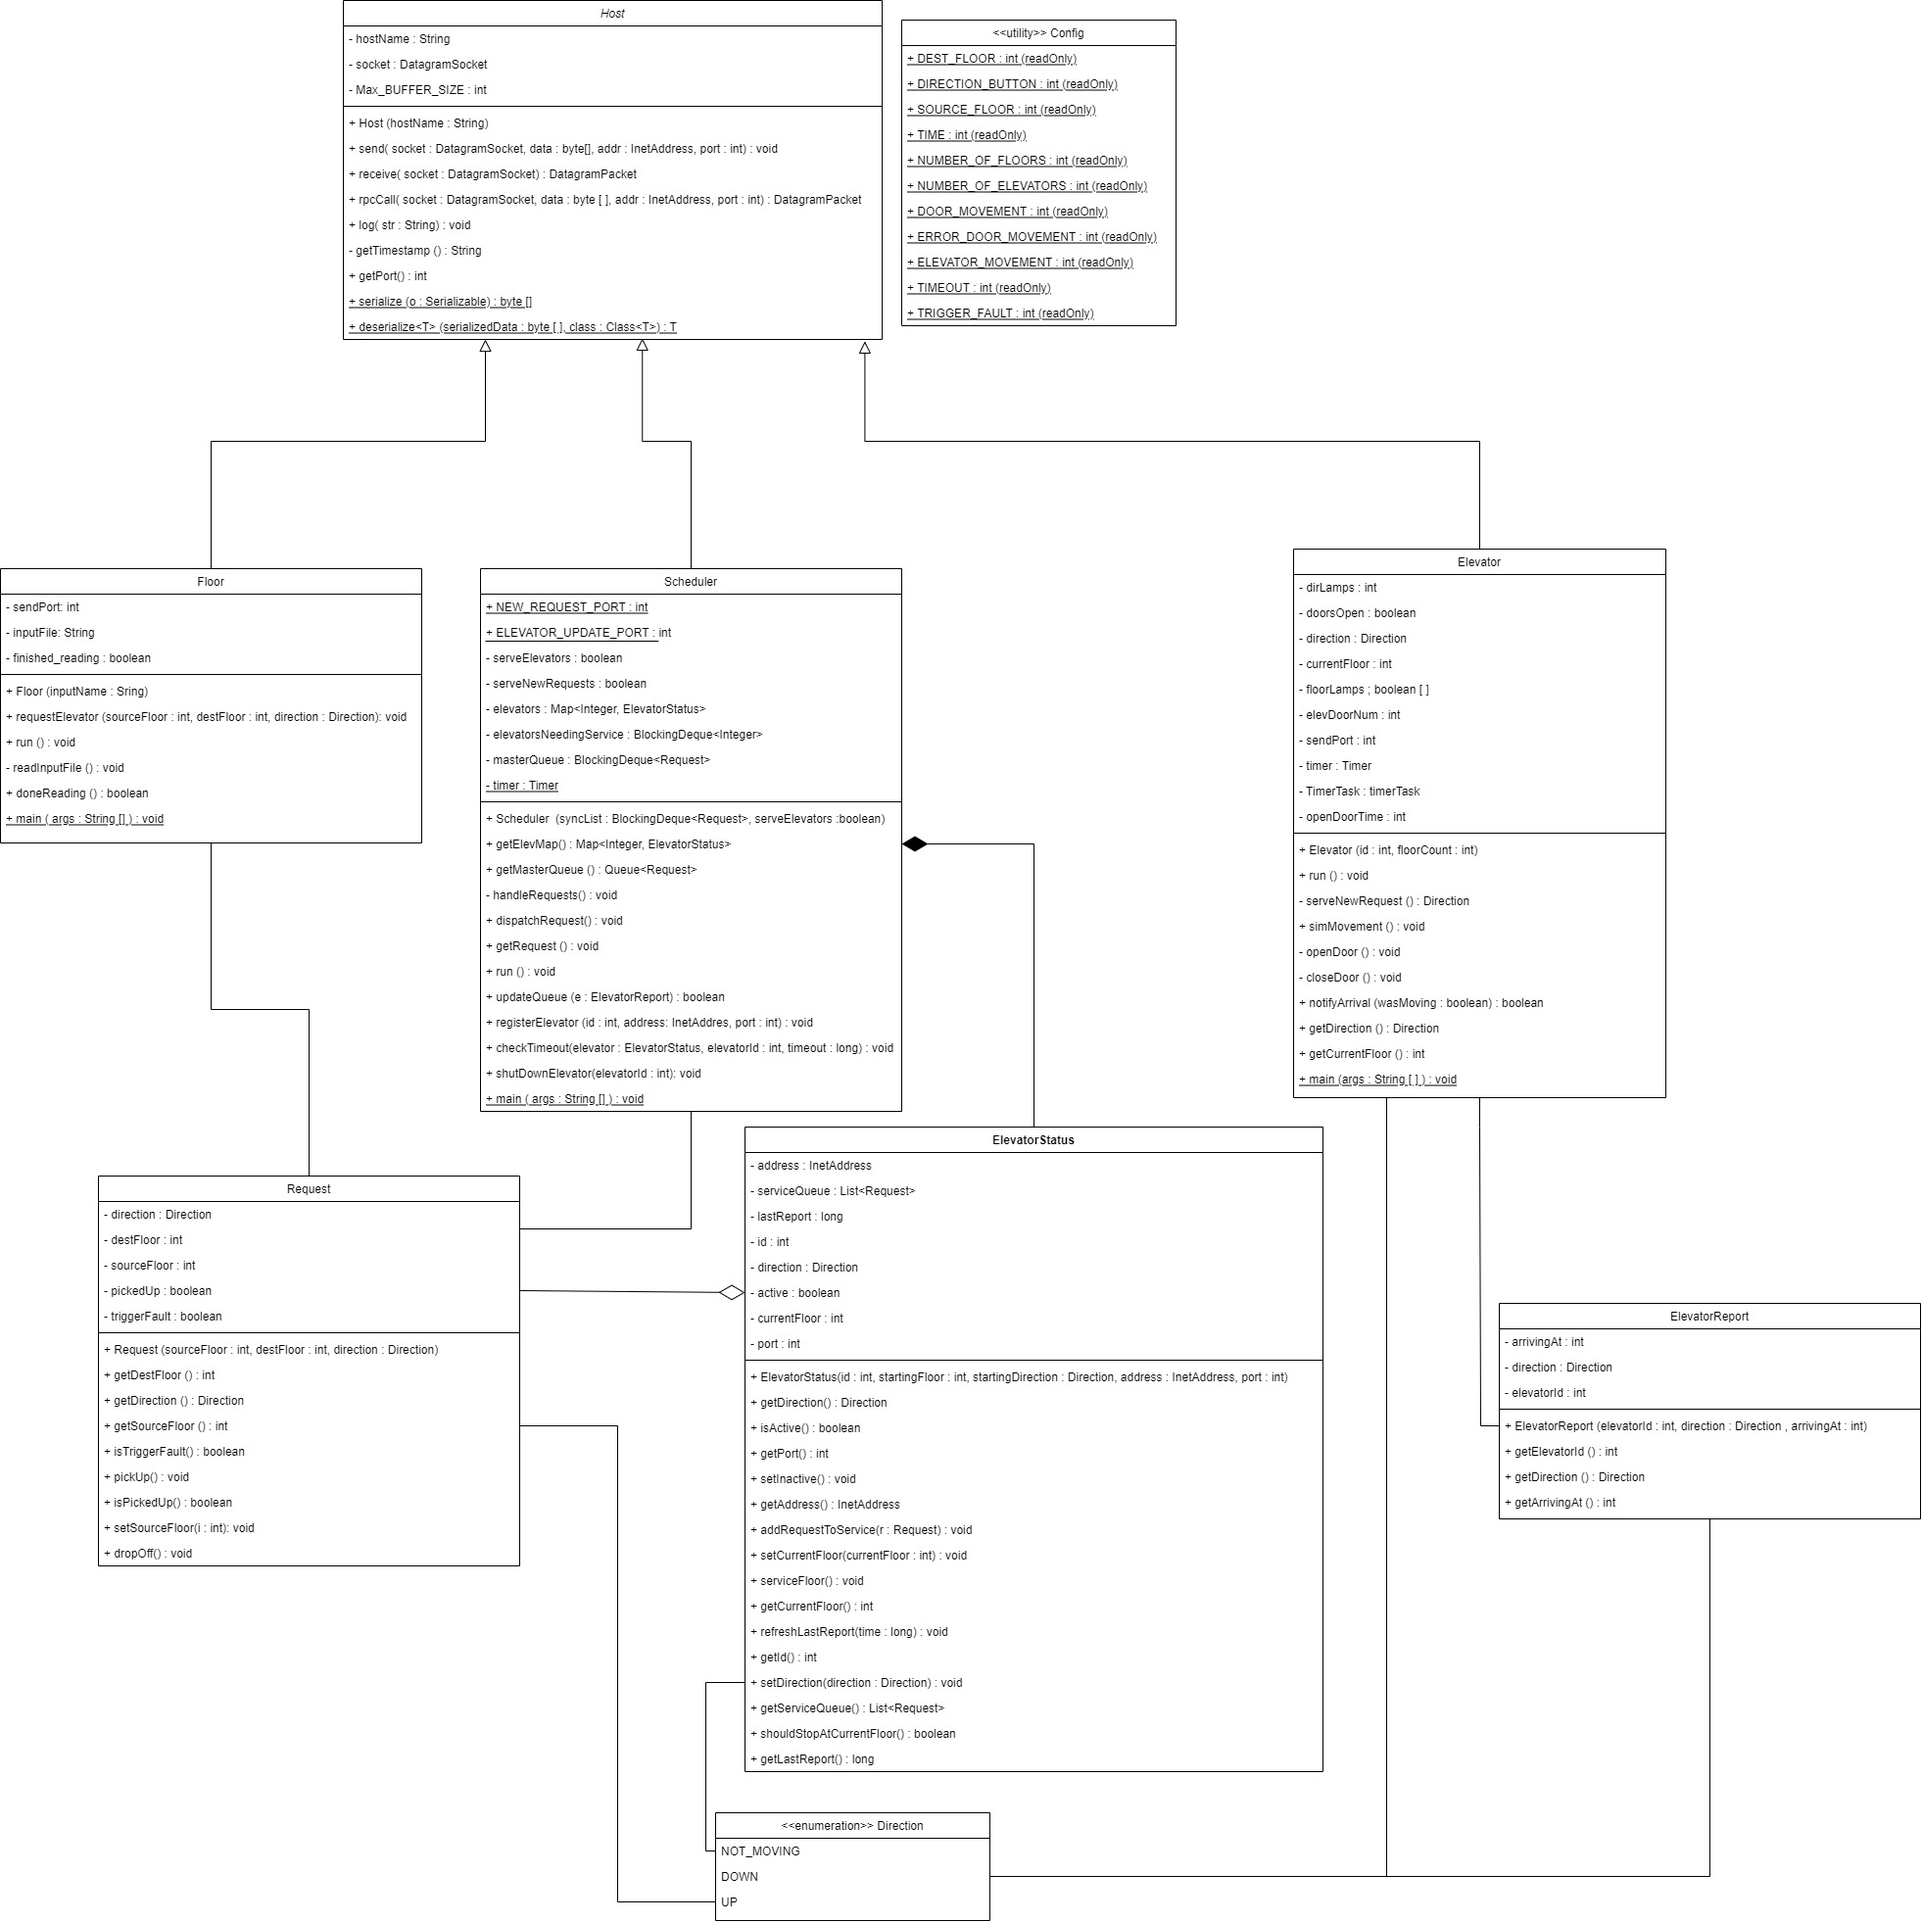
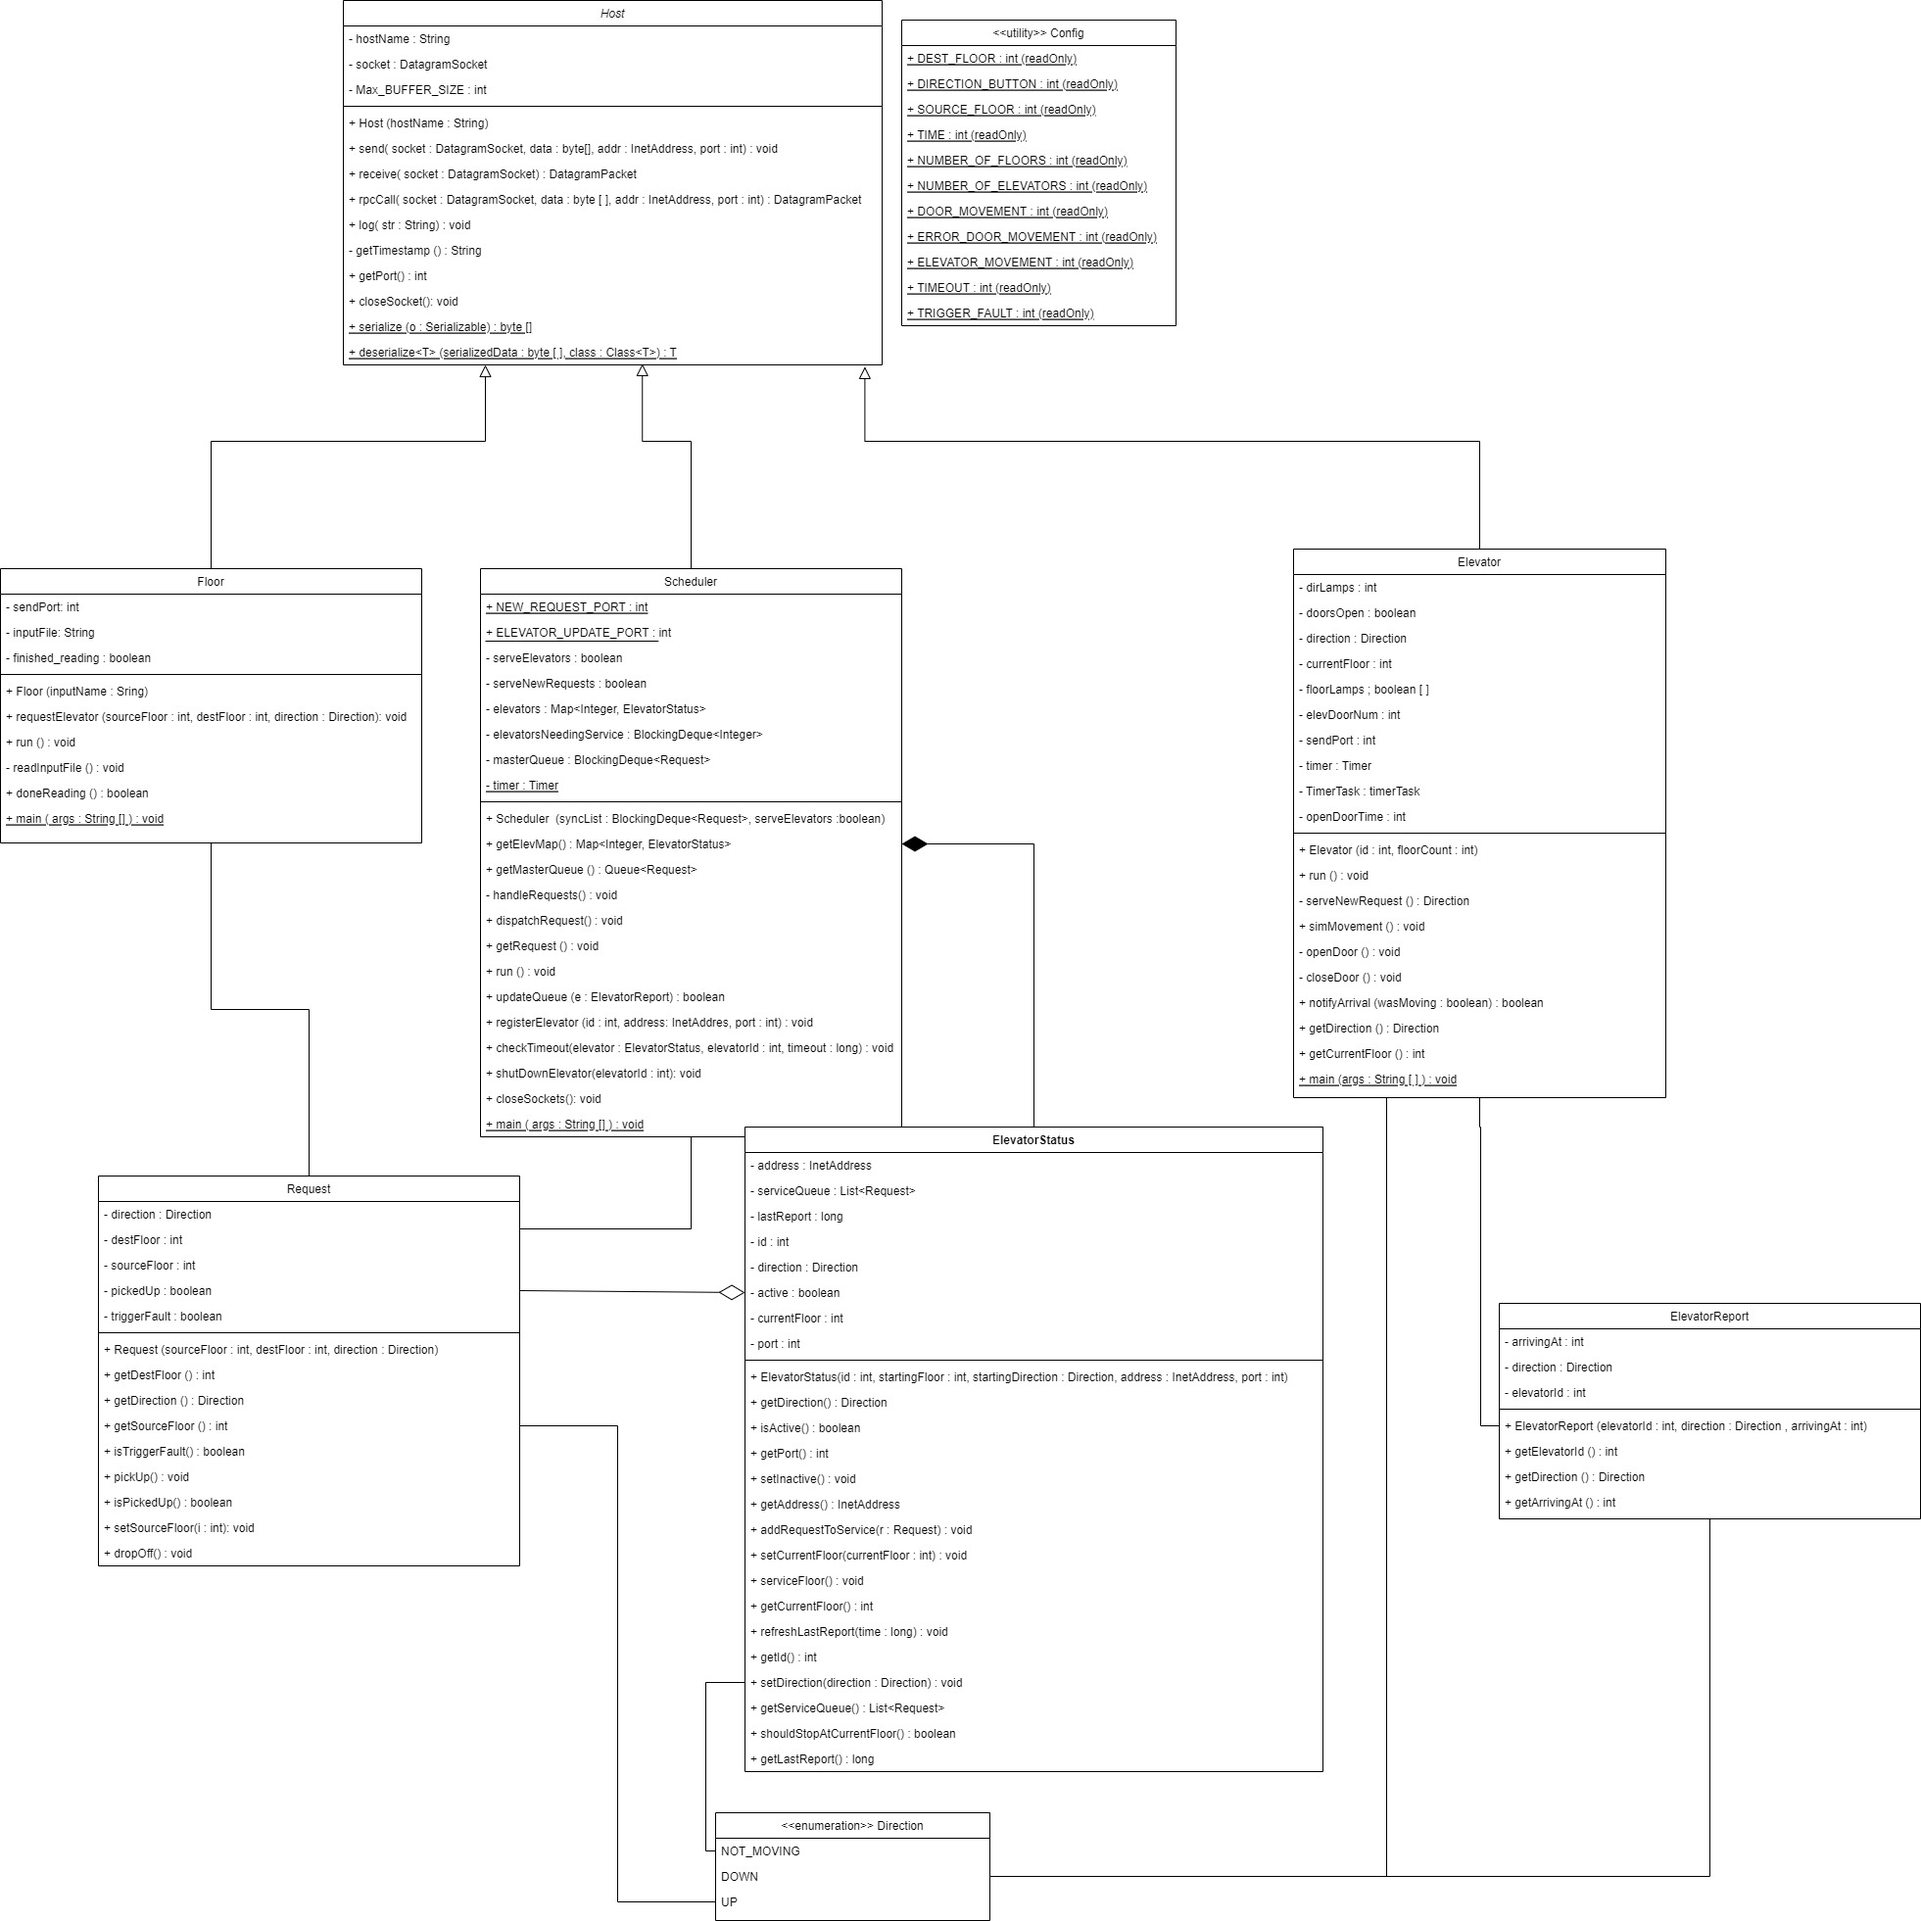
Test classes updated (#19)
* Updated Class Diagram with new Changes

diff --git a/Test/SchedulerTest.java b/Test/SchedulerTest.java
@@ -1,10 +1,12 @@
-import org.junit.jupiter.api.BeforeAll;
 import org.junit.jupiter.api.Test;
 
 import static org.junit.Assert.assertTrue;
 
 import java.net.InetAddress;
-
+import org.junit.jupiter.api.*;
+import java.net.*;
+import java.util.*;
+import java.util.concurrent.*;
 
 /**
  * This is the JUnit test case for the Scheduler in the Elevator system
@@ -13,9 +15,12 @@ class SchedulerTest {
     private static Elevator e;
     private static Scheduler s;
 
-    @BeforeAll
-    public static void init() {
-        s = new Scheduler(true);
+    @BeforeEach
+    public void init() {
+    	BlockingDeque<Request> master = new LinkedBlockingDeque<>();
+		BlockingDeque<Integer> reqsToServe = new LinkedBlockingDeque<>();
+		Map<Integer, ElevatorStatus> elevators = Collections.synchronizedMap(new HashMap<>(Config.NUMBER_OF_ELEVATORS));
+        s = new Scheduler(master, reqsToServe, elevators, true, false);
         e = new Elevator(1, Config.NUMBER_OF_FLOORS, s.getPort());
         
     }
@@ -27,6 +32,14 @@ class SchedulerTest {
     public void testRegisterElevator() {
     	s.registerElevator(1, InetAddress.getLoopbackAddress(), 9999);
     	assertTrue(s.getElevMap().containsKey(1));
+    }
+    
+    /**
+     * Closes all the sockets so that the other Test classes can bind properly.
+     */
+    @AfterEach
+    public void closeSockets() {
+    	s.closeSockets();
     }
     
 }

diff --git a/src/Scheduler.java b/src/Scheduler.java
@@ -34,18 +34,19 @@ public class Scheduler extends Host implements Runnable{
 		this.elevators = elevators;
 		this.serveElevators = serveElevators;
 		this.serveNewRequests = serveNewRequests;
-	}
-
-	/**
-	 * Not thread safe. Use only for testing or single components
-	 * @param serveElevators true to listen to elevators, false otherwise
-	 */
-	public Scheduler(boolean serveElevators) {
-		super("Scheduler");
-		this.masterQueue = new LinkedBlockingDeque<>();
-		this.elevatorsNeedingService = new LinkedBlockingDeque<>();
-		this.serveElevators = serveElevators;
-		this.serveNewRequests = false;
+	    try {
+			if (serveElevators) {
+				if (serveNewRequests) {
+					socket = new DatagramSocket();
+				} else {
+					socket = new DatagramSocket(ELEVATOR_UPDATE_PORT);
+				}
+			} else {
+				socket = new DatagramSocket(NEW_REQUEST_PORT);
+			}
+         } catch (SocketException se) {
+            se.printStackTrace();
+         }
 	}
 
 	/**
@@ -268,6 +269,20 @@ public class Scheduler extends Host implements Runnable{
 		}
 
 		elevator.getServiceQueue().clear();
+	}
+	
+	/**
+	 * Calls Host class to close the socket.
+	 */
+	public void closeSockets() {
+		this.closeSocket();
+	}
+	
+	/**
+	 * Method used for test classes to close the socket.
+	 */
+	public void closeAllSockets() {
+		socket.close();
 	}
 
 	public static void main(String[] args) {

diff --git a/Test/IntegrationTest.java b/Test/IntegrationTest.java
@@ -2,8 +2,10 @@ import static org.junit.jupiter.api.Assertions.*;
 
 import java.net.InetAddress;
 import java.net.SocketException;
+import java.net.*;
+import java.util.*;
+import java.util.concurrent.*;
 
-import org.junit.*;
 import org.junit.jupiter.api.*;
 import org.junit.jupiter.api.Test;
 
@@ -20,9 +22,12 @@ public class IntegrationTest {
 	/**
 	 * Initialization of integration testing environment;
 	 */
-	@BeforeAll
-	public static void init() {
-		s = new Scheduler(false);
+	@BeforeEach
+	public void init() {
+		BlockingDeque<Request> master = new LinkedBlockingDeque<>();
+		BlockingDeque<Integer> reqsToServe = new LinkedBlockingDeque<>();
+		Map<Integer, ElevatorStatus> elevators = Collections.synchronizedMap(new HashMap<>(Config.NUMBER_OF_ELEVATORS));
+        s = new Scheduler(master, reqsToServe, elevators, false, false);
 		e1 = new Elevator(1, 7, s.getPort());
 		s.registerElevator(1, InetAddress.getLoopbackAddress(), 9999);
 		e2 = new Elevator(2, 7, s.getPort());
@@ -51,6 +56,11 @@ public class IntegrationTest {
 		assertEquals(r.getDirection(), Direction.UP);
 	}
 	
-
-
+	/**
+     * Closes all the sockets so that the other Test classes can bind properly.
+     */
+    @AfterEach
+    public void closeSockets() {
+    	s.closeSockets();
+    }
 }

diff --git a/Test/ElevatorTest.java b/Test/ElevatorTest.java
@@ -1,9 +1,11 @@
-import org.junit.jupiter.api.BeforeEach;
-import org.junit.jupiter.api.Test;
+import org.junit.jupiter.api.*;
 
 import static org.junit.jupiter.api.Assertions.assertEquals;
 
 import java.net.InetAddress;
+import java.net.*;
+import java.util.*;
+import java.util.concurrent.*;
 
 //TODO make tests to floorLamps, currentFloor, direction, doorsOpen, serveNewRequest(), simMovement(), openDoor(), closeDoor(), addExternalRequest(), registerElevator()
 
@@ -17,9 +19,11 @@ class ElevatorTest {
 
     @BeforeEach
     public void init() {
-        s = new Scheduler(true);
+    	BlockingDeque<Request> master = new LinkedBlockingDeque<>();
+		BlockingDeque<Integer> reqsToServe = new LinkedBlockingDeque<>();
+		Map<Integer, ElevatorStatus> elevators = Collections.synchronizedMap(new HashMap<>(Config.NUMBER_OF_ELEVATORS));
+        s = new Scheduler(master, reqsToServe, elevators, true, false);
     	e = new Elevator(0, 10, s.getPort());
-
     }
 
     /**
@@ -50,4 +54,11 @@ class ElevatorTest {
     	assertEquals(3, e.getCurrentFloor());
     }
     
+    /**
+     * Closes all the sockets so that the other Test classes can bind properly.
+     */
+    @AfterEach
+    public void closeSockets() {
+    	s.closeSockets();
+    }
 }

diff --git a/Test/FloorTest.java b/Test/FloorTest.java
@@ -1,6 +1,8 @@
 import static org.junit.jupiter.api.Assertions.*;
 
-import java.net.SocketException;
+import java.net.*;
+import java.util.*;
+import java.util.concurrent.*;
 
 import org.junit.jupiter.api.*;
 
@@ -14,7 +16,10 @@ class FloorTest {
     @BeforeAll
     public static void init() {
     	try {
-			s = new Scheduler(false);
+    		BlockingDeque<Request> master = new LinkedBlockingDeque<>();
+    		BlockingDeque<Integer> reqsToServe = new LinkedBlockingDeque<>();
+    		Map<Integer, ElevatorStatus> elevators = Collections.synchronizedMap(new HashMap<>(Config.NUMBER_OF_ELEVATORS));
+            s = new Scheduler(master, reqsToServe, elevators, false, false);
 			f = new Floor("test/inputTest", s.getPort());
 		} catch (SocketException e) {
 			e.printStackTrace();
@@ -68,5 +73,13 @@ class FloorTest {
         	assertEquals(r.getDestFloor(), 1);
         	assertEquals(r.getDirection(), Direction.DOWN);
     	}
+    }
+    
+    /**
+     * Closes all the sockets so that the other Test classes can bind properly.
+     */
+    @AfterAll
+    public static void closeSockets() {
+    	s.closeSockets();
     }
 }

diff --git a/src/Host.java b/src/Host.java
@@ -154,4 +154,11 @@ public abstract class Host {
     public int getPort() {
         return this.socket.getLocalPort();
     }
+    
+    /**
+     * Closes the socket for test classes.
+     */
+    public void closeSocket() {
+    	this.socket.close();
+    }
 }
